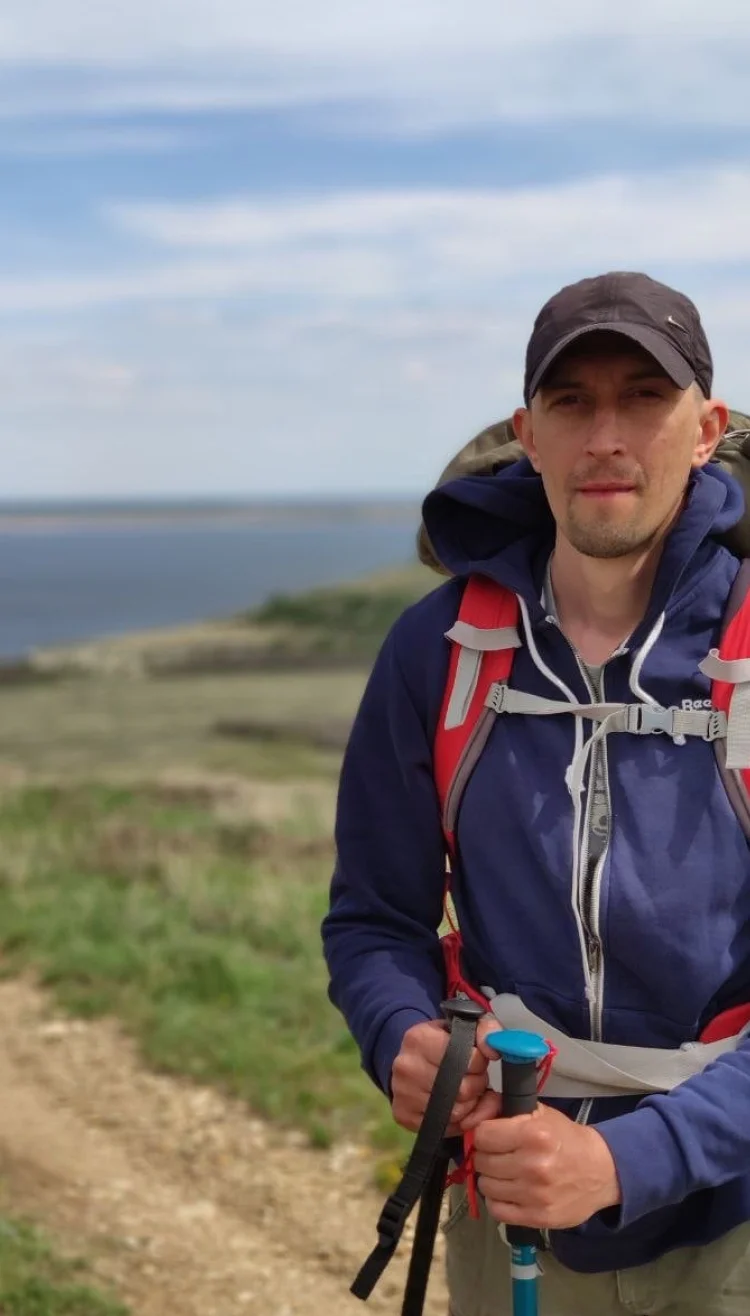
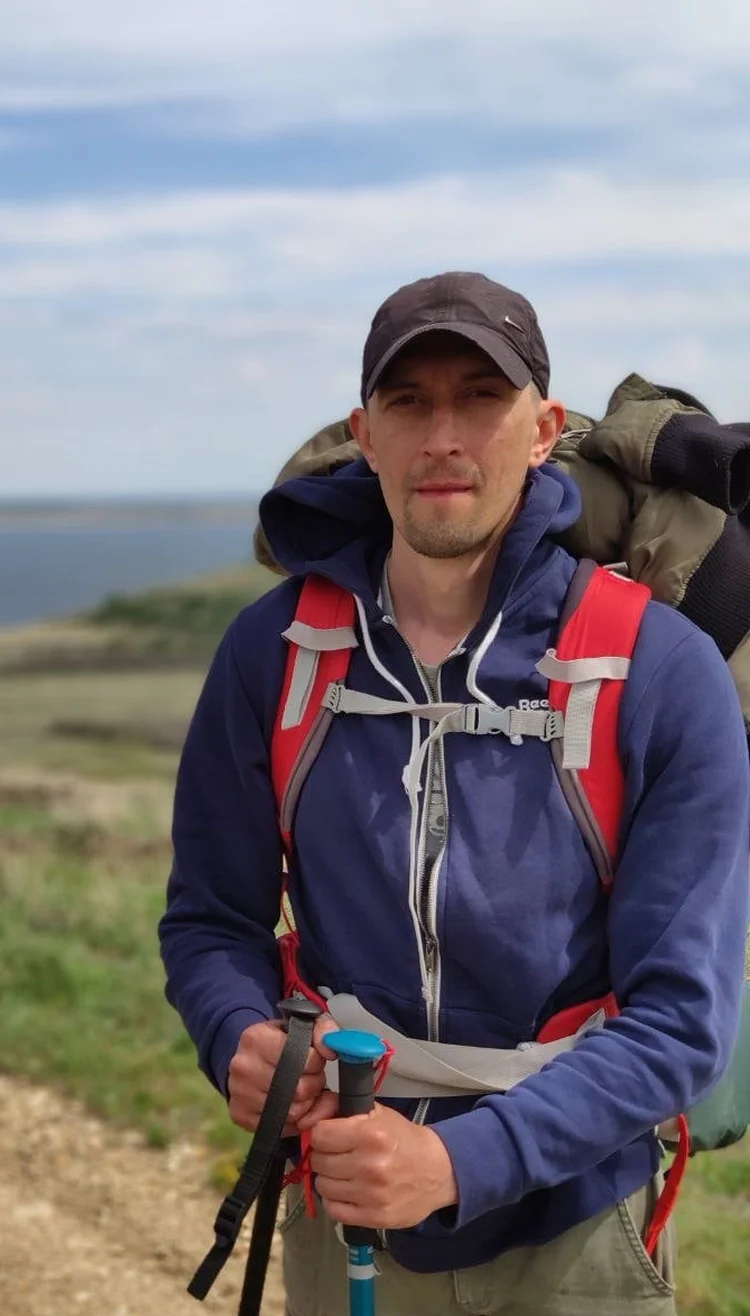
ss

diff --git a/about.html b/about.html
@@ -34,7 +34,7 @@
           <div class="team-hero__main">
             <div class="team-hero__photo">
               <img
-                src="./foto/placeholder/vladimer 1.jpg"
+                src="./about/foto/2.2.webp"
                 alt="Владимер Сергиенко"
               />
             </div>
